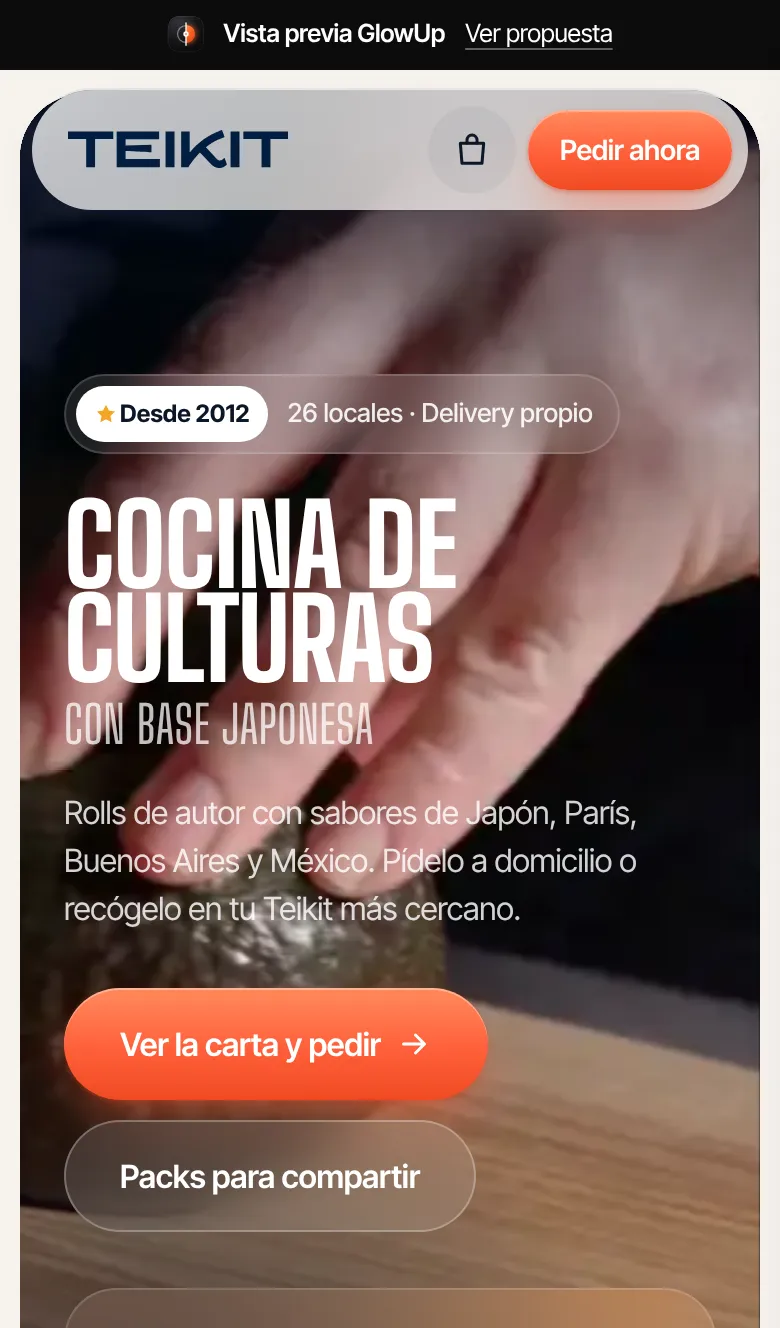
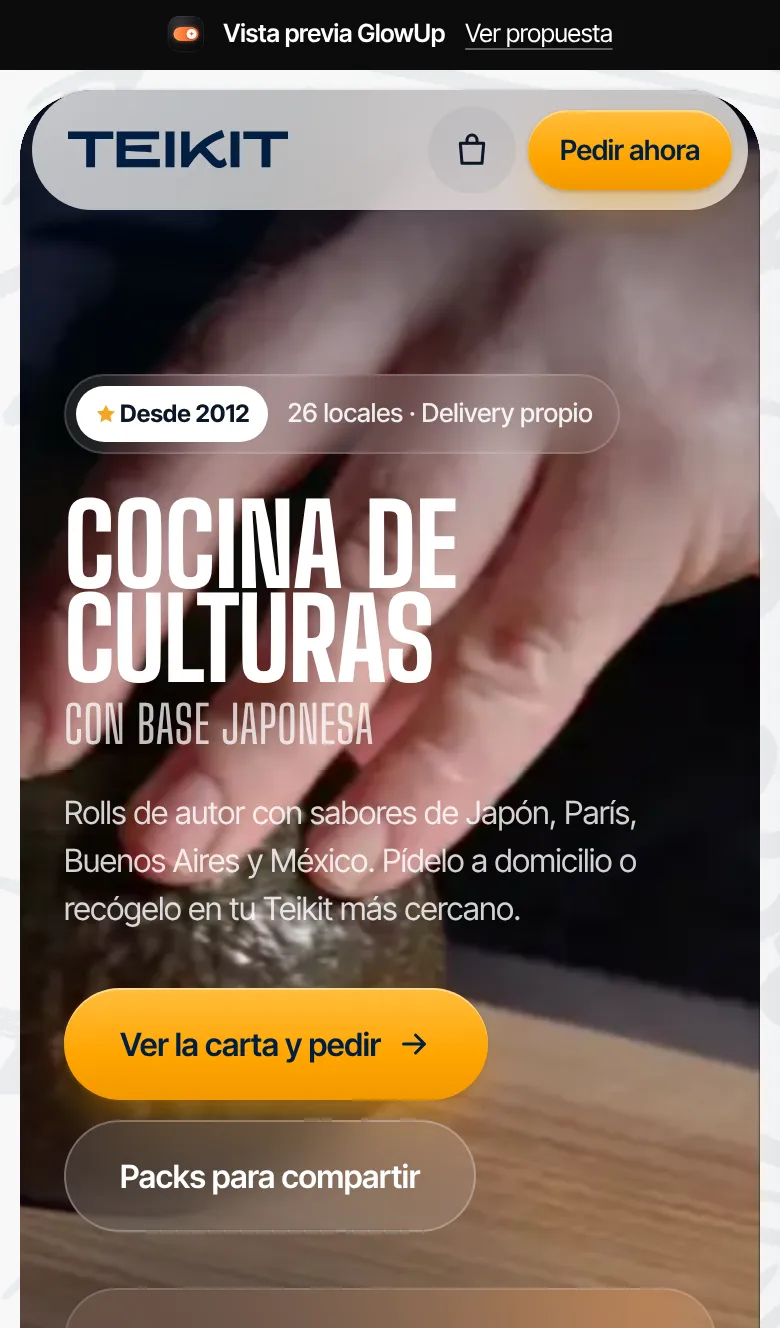
Demo con la paleta, el patrón y las fotos de Teikit; garantía como contrato en la landing
- Demo: el salmón pasa al ámbar de Teikit (#FFA500) con texto navy;
  su patrón de dibujos de fondo (cargado tras pintar la portada) y en
  blanco sobre la franja azul; foto en cada local (sus 19 fotos de
  locales), sushiman en 'Nuestra historia', servicios con fotos reales
  (rider, ventanilla de recogida, degustación, cajas para eventos).
- Landing: la garantía es el contrato firmado (firma y sello animados);
  el precio, a lo ancho debajo.
- Propuesta: capturas, carrera de carga y tarjeta de colores al día.

Claude-Session: https://claude.ai/code/session_01ML5JEjcnWQZsaYVQ4vkEcQ

Changed region(s): [[0.0615, 0.741, 0.6462, 0.8336], [0.6769, 0.0617, 0.9538, 0.1544], [0.2154, 0.0, 0.2462, 0.0309]]

diff --git a/demo/teikit/teikit.css b/demo/teikit/teikit.css
@@ -13,9 +13,12 @@
   --paper: #fffdf9;
   --beige: #e2ded6;            /* el fondo exacto de sus fotos de producto */
   --line: rgba(1, 30, 65, .09);
-  --salmon: #ff5f3a;
-  --salmon-2: #ff8a5c;
-  --salmon-ink: #c63d1c;
+  --amber: #ffa500;          /* el ámbar de los botones de teikit.es */
+  --amber-2: #ffbe3d;
+  --amber-ink: #8a5000;      /* ámbar oscuro para texto sobre claro */
+  --slate: #bacbd1;          /* gris azulado de 'Sushi masters desde 2012' */
+  --slate-ink: #45606e;
+  --off: #f7f8f8;            /* blanco roto del fondo con patrón */
   --green: #22a65a;
   --r-s: 14px;
   --r-m: 22px;
@@ -36,16 +39,18 @@ body {
   margin: 0;
   font-family: var(--sans);
   color: var(--ink);
-  background: var(--cream);
+  background: var(--off);
   font-size: 16px;
   line-height: 1.5;
   -webkit-font-smoothing: antialiased;
   overflow-x: hidden;
 }
+/* El patrón de Teikit se pinta justo después de la portada (no retrasa la carga) */
+body.pat { background-image: url(img/pattern-navy.webp); background-size: 1400px auto; }
 img, video { display: block; max-width: 100%; }
 a { color: inherit; text-decoration: none; }
 button { font: inherit; color: inherit; border: 0; background: none; cursor: pointer; }
-:focus-visible { outline: 2px solid var(--salmon); outline-offset: 3px; border-radius: 8px; }
+:focus-visible { outline: 2px solid var(--amber); outline-offset: 3px; border-radius: 8px; }
 .wrap { width: 100%; max-width: var(--max); margin: 0 auto; padding: 0 var(--gutter); }
 .sr { position: absolute; width: 1px; height: 1px; overflow: hidden; clip: rect(0 0 0 0); }
 
@@ -90,7 +95,7 @@ button { font: inherit; color: inherit; border: 0; background: none; cursor: poi
 .cart-btn svg { width: 20px; height: 20px; }
 .cart-btn .count {
   position: absolute; top: -2px; right: -2px; min-width: 19px; height: 19px; padding: 0 5px;
-  border-radius: 99px; background: var(--salmon); color: #fff; font-size: 11px; font-weight: 700;
+  border-radius: 99px; background: var(--amber); color: var(--navy); font-size: 11px; font-weight: 700;
   display: grid; place-items: center; transform: scale(0); transition: transform .35s var(--spring);
 }
 .cart-btn.has .count { transform: scale(1); }
@@ -115,11 +120,11 @@ button { font: inherit; color: inherit; border: 0; background: none; cursor: poi
 .btn:hover { transform: translateY(-2px); }
 .btn:active { transform: translateY(0) scale(.98); }
 .btn svg { width: 18px; height: 18px; }
-.btn.salmon {
-  --bg: linear-gradient(180deg, var(--salmon-2), var(--salmon) 55%, #f04a22);
-  box-shadow: inset 0 1px 0 rgba(255,255,255,.35), 0 1px 2px rgba(198,61,28,.4), 0 12px 28px -10px rgba(255,95,58,.75);
+.btn.amber {
+  --bg: linear-gradient(180deg, var(--amber-2), var(--amber) 60%, #f29800); --fg: var(--navy);
+  box-shadow: inset 0 1px 0 rgba(255,255,255,.45), 0 1px 2px rgba(138,80,0,.35), 0 12px 28px -10px rgba(255,165,0,.7);
 }
-.btn.salmon:hover { box-shadow: inset 0 1px 0 rgba(255,255,255,.35), 0 1px 2px rgba(198,61,28,.4), 0 18px 36px -10px rgba(255,95,58,.85); }
+.btn.amber:hover { box-shadow: inset 0 1px 0 rgba(255,255,255,.45), 0 1px 2px rgba(138,80,0,.35), 0 18px 36px -10px rgba(255,165,0,.8); }
 .btn.ghost { --bg: rgba(255,255,255,.12); box-shadow: inset 0 0 0 1px rgba(255,255,255,.28); -webkit-backdrop-filter: blur(12px); backdrop-filter: blur(12px); }
 .btn.light { --bg: #fff; --fg: var(--ink); box-shadow: var(--shadow-s); }
 .btn.sm { height: 40px; padding: 0 16px; font-size: 14px; }
@@ -178,7 +183,7 @@ button { font: inherit; color: inherit; border: 0; background: none; cursor: poi
   width: 100%; height: 50px; padding: 0 16px 0 44px; border-radius: 16px; border: 0;
   background: rgba(255,255,255,.95); color: var(--ink); font: 500 15px var(--sans); outline: none;
 }
-.loc-input svg { position: absolute; left: 14px; top: 50%; translate: 0 -50%; width: 20px; height: 20px; color: var(--salmon); }
+.loc-input svg { position: absolute; left: 14px; top: 50%; translate: 0 -50%; width: 20px; height: 20px; color: var(--amber-ink); }
 .loc-results { margin-top: 8px; display: grid; gap: 6px; max-height: 0; overflow: hidden; transition: max-height .5s var(--ease); }
 .loc-results.open { max-height: 260px; }
 .loc-results a {
@@ -214,7 +219,7 @@ button { font: inherit; color: inherit; border: 0; background: none; cursor: poi
 /* ---------- Section headings ---------- */
 .sec { padding: clamp(72px, 10vw, 128px) 0 0; }
 .sec-head { display: flex; align-items: end; justify-content: space-between; gap: 24px; margin-bottom: 28px; }
-.kicker { display: inline-flex; align-items: center; gap: 8px; font-size: 13px; font-weight: 600; color: var(--salmon-ink); letter-spacing: .02em; text-transform: uppercase; margin-bottom: 12px; }
+.kicker { display: inline-flex; align-items: center; gap: 8px; font-size: 13px; font-weight: 600; color: var(--slate-ink); letter-spacing: .02em; text-transform: uppercase; margin-bottom: 12px; }
 .kicker::before { content: ""; width: 18px; height: 2px; border-radius: 2px; background: currentColor; }
 .h2 {
   margin: 0; font-family: var(--display); font-weight: 800; text-transform: uppercase;
@@ -245,7 +250,7 @@ button { font: inherit; color: inherit; border: 0; background: none; cursor: poi
 .hero-dish h3 { margin: 0; font-size: 18px; letter-spacing: -.02em; }
 .hero-dish p { margin: 4px 0 12px; font-size: 13.5px; color: var(--ink-2); line-height: 1.4; display: -webkit-box; -webkit-line-clamp: 2; -webkit-box-orient: vertical; overflow: hidden; }
 .badge { display: inline-flex; align-items: center; gap: 5px; height: 26px; padding: 0 10px; border-radius: 99px; font-size: 12px; font-weight: 600; background: #fff; color: var(--ink); box-shadow: 0 1px 2px rgba(0,0,0,.08); }
-.badge.hot { background: var(--salmon-ink); color: #fff; }
+.badge.hot { background: var(--amber); color: var(--navy); }
 .badge.new { background: var(--navy); color: #fff; }
 .badge.veg { background: #e5f5ea; color: #16733d; }
 .hero-dish .badges { position: absolute; top: 12px; left: 12px; display: flex; gap: 6px; }
@@ -314,11 +319,12 @@ button { font: inherit; color: inherit; border: 0; background: none; cursor: poi
 .band {
   margin-top: clamp(72px, 10vw, 128px); padding: clamp(64px, 8vw, 104px) 0; background: var(--navy); color: #fff;
   border-radius: var(--r-l); width: calc(100% - 20px); margin-left: auto; margin-right: auto; overflow: hidden; position: relative;
+  background-image: url(img/pattern-white.webp); background-size: 1400px auto;
 }
-.band::before { content: ""; position: absolute; inset: -40% -10% auto auto; width: 70%; height: 120%; background: radial-gradient(closest-side, rgba(255,95,58,.22), transparent); pointer-events: none; }
+.band::before { content: ""; position: absolute; inset: -40% -10% auto auto; width: 70%; height: 120%; background: radial-gradient(closest-side, rgba(255,165,0,.18), transparent); pointer-events: none; }
 .band .h2 { color: #fff; }
 .band .sub { color: rgba(255,255,255,.72); }
-.band .kicker { color: var(--salmon-2); }
+.band .kicker { color: var(--slate); }
 .packs { display: grid; grid-template-columns: 1.3fr 1fr 1fr; gap: 14px; }
 .pack {
   position: relative; border-radius: var(--r-m); overflow: hidden; background: var(--beige); color: var(--ink);
@@ -342,11 +348,11 @@ button { font: inherit; color: inherit; border: 0; background: none; cursor: poi
 .story .intro { grid-row: span 2; background: var(--navy); color: #fff; display: flex; flex-direction: column; justify-content: space-between; min-height: 520px; padding: 0; }
 .story .intro .txt { padding: 32px; }
 .story .intro .txt p { color: rgba(255,255,255,.78); font-size: 17px; max-width: 460px; }
-.story .intro img { width: 100%; height: 260px; object-fit: cover; }
+.story .intro img { width: 100%; height: 320px; object-fit: cover; object-position: 50% 30%; }
 .story .intro h2 { font-family: var(--display); font-weight: 800; text-transform: uppercase; font-size: clamp(40px, 4.4vw, 60px); line-height: .9; margin: 0 0 14px; }
 .values { display: grid; grid-template-columns: 1fr 1fr; gap: 14px; }
 .value { border-radius: var(--r-m); background: var(--paper); box-shadow: var(--shadow-s); padding: 24px; }
-.value .num { font-family: var(--display); font-weight: 800; font-size: 54px; line-height: 1; color: var(--salmon); }
+.value .num { font-family: var(--display); font-weight: 800; font-size: 54px; line-height: 1; color: var(--slate); -webkit-text-stroke: 0; }
 .value h3 { margin: 10px 0 6px; font-size: 18px; letter-spacing: -.02em; }
 .value p { margin: 0; font-size: 14px; color: var(--ink-2); }
 @media (max-width: 920px) { .story { grid-template-columns: 1fr; } .story .intro { min-height: 0; } }
@@ -372,7 +378,13 @@ button { font: inherit; color: inherit; border: 0; background: none; cursor: poi
 .regions button.on { background: var(--navy); color: #fff; }
 .regions button.on span { background: rgba(255,255,255,.16); color: #fff; }
 .store-list { display: grid; grid-template-columns: repeat(auto-fill, minmax(260px, 1fr)); gap: 12px; align-content: start; }
-.store { padding: 20px; border-radius: var(--r-m); background: var(--paper); box-shadow: var(--shadow-s); display: flex; flex-direction: column; gap: 4px; animation: rise .5s var(--ease) both; }
+.store { padding: 0 0 18px; overflow: hidden; border-radius: var(--r-m); background: var(--paper); box-shadow: var(--shadow-s); display: flex; flex-direction: column; gap: 4px; animation: rise .5s var(--ease) both; transition: transform .4s var(--ease), box-shadow .4s var(--ease); }
+.store:hover { transform: translateY(-3px); box-shadow: var(--shadow-m); }
+.store .ph { position: relative; aspect-ratio: 16 / 11; overflow: hidden; margin-bottom: 12px; background: var(--navy); }
+.store .ph img { width: 100%; height: 100%; object-fit: cover; transition: transform 1.2s var(--ease); }
+.store:hover .ph img { transform: scale(1.05); }
+.store .ph .st { position: absolute; left: 12px; top: 12px; margin: 0; background: rgba(255,253,249,.92); -webkit-backdrop-filter: blur(10px); backdrop-filter: blur(10px); }
+.store > h3, .store > .addr, .store > .row { margin-left: 18px; margin-right: 18px; }
 .store h3 { margin: 0; font-size: 17px; letter-spacing: -.02em; }
 .store .addr { font-size: 14px; color: var(--ink-2); }
 .store .row { display: flex; gap: 6px; margin-top: 12px; }
@@ -384,6 +396,7 @@ button { font: inherit; color: inherit; border: 0; background: none; cursor: poi
 .store .st { align-self: flex-start; display: inline-flex; align-items: center; gap: 6px; height: 24px; padding: 0 10px; border-radius: 99px; font-size: 12px; font-weight: 600; background: var(--cream); color: var(--ink-2); margin-bottom: 8px; }
 .store .st i { width: 7px; height: 7px; border-radius: 50%; background: #f5a524; }
 .store .st.on { background: #e5f5ea; color: #16733d; }
+.store .ph .st.on { background: rgba(229,245,234,.94); }
 .store .st.on i { background: var(--green); }
 
 /* Fotos de los locales */
@@ -414,7 +427,7 @@ button { font: inherit; color: inherit; border: 0; background: none; cursor: poi
 /* ---------- Services ---------- */
 .services { display: grid; grid-template-columns: repeat(4, 1fr); gap: 12px; }
 .svc { padding: 24px; border-radius: var(--r-m); background: var(--paper); box-shadow: var(--shadow-s); }
-.svc .ico { width: 46px; height: 46px; border-radius: 14px; display: grid; place-items: center; background: var(--cream); color: var(--salmon); margin-bottom: 18px; }
+.svc .ico { width: 46px; height: 46px; border-radius: 14px; display: grid; place-items: center; background: var(--cream); color: var(--navy); margin-bottom: 18px; }
 .svc .ico svg { width: 22px; height: 22px; }
 .svc h3 { margin: 0 0 6px; font-size: 18px; letter-spacing: -.02em; }
 .svc p { margin: 0; font-size: 14px; color: var(--ink-2); }
@@ -480,12 +493,12 @@ body.cart-open .drawer-bg { opacity: 1; pointer-events: auto; }
 .sg .add { width: 28px; height: 28px; padding: 0; justify-content: center; }
 .sg .add svg { width: 14px; height: 14px; }
 .drawer .dinfo { display: flex; align-items: center; gap: 8px; font-size: 12.5px; color: var(--ink-2); margin-bottom: 12px; padding: 10px 12px; border-radius: 12px; background: var(--cream); }
-.drawer .dinfo svg { width: 18px; height: 18px; color: var(--salmon-ink); flex: none; }
+.drawer .dinfo svg { width: 18px; height: 18px; color: var(--amber-ink); flex: none; }
 .drawer footer { padding: 16px 20px 20px; border-top: 1px solid var(--line); }
 .drawer .tot { display: flex; justify-content: space-between; font-size: 15px; margin-bottom: 4px; }
 .drawer .tot.big { font-size: 20px; font-weight: 700; letter-spacing: -.02em; margin: 8px 0 14px; }
 .drawer .free { height: 6px; border-radius: 99px; background: var(--cream); overflow: hidden; margin: 6px 0 4px; }
-.drawer .free i { display: block; height: 100%; background: linear-gradient(90deg, var(--salmon-2), var(--salmon)); border-radius: 99px; transition: width .6s var(--ease); }
+.drawer .free i { display: block; height: 100%; background: linear-gradient(90deg, var(--amber-2), var(--amber)); border-radius: 99px; transition: width .6s var(--ease); }
 .drawer .free-txt { font-size: 12.5px; color: var(--ink-2); }
 .drawer footer .btn { width: 100%; }
 .drawer .empty-cart { text-align: center; padding: 40px 10px; color: var(--ink-2); }
@@ -504,3 +517,13 @@ body.cart-open .drawer-bg { opacity: 1; pointer-events: auto; }
   *, *::before, *::after { animation-duration: .001ms !important; animation-iteration-count: 1 !important; transition-duration: .001ms !important; scroll-behavior: auto !important; }
   .rv { opacity: 1; transform: none; filter: none; }
 }
+
+/* Servicios con fotos reales de Teikit */
+.svc.ph-card { padding: 0; overflow: hidden; display: flex; flex-direction: column; }
+.svc.ph-card .im { position: relative; aspect-ratio: 4 / 3; overflow: hidden; background: var(--navy); }
+.svc.ph-card .im img { width: 100%; height: 100%; object-fit: cover; transition: transform 1.2s var(--ease); }
+.svc.ph-card:hover .im img { transform: scale(1.05); }
+.svc.ph-card .im .ico { position: absolute; left: 14px; bottom: -22px; margin: 0; background: var(--amber); color: var(--navy); box-shadow: 0 8px 18px -8px rgba(138,80,0,.6); }
+.svc.ph-card .tx { padding: 34px 22px 22px; }
+/* Las fotos de la sección de locales, ahora más altas y con las mejores fachadas */
+.loc-photos .lp img { object-position: 50% 40%; }

diff --git a/demo/teikit/index.html b/demo/teikit/index.html
@@ -58,7 +58,7 @@
   </nav>
   <div class="actions">
     <button class="cart-btn" id="cartBtn" aria-label="Abrir pedido"><svg><use href="#i-bag"/></svg><span class="count" id="cartCount">0</span></button>
-    <a class="btn salmon sm" href="#carta">Pedir ahora</a>
+    <a class="btn amber sm" href="#carta">Pedir ahora</a>
   </div>
 </header>
 
@@ -76,7 +76,7 @@
           <h1 class="rv" style="--d:.08s">Cocina de culturas<span class="thin">con base japonesa</span></h1>
           <p class="lead rv" style="--d:.16s">Rolls de autor con sabores de Japón, París, Buenos Aires y México. Pídelo a domicilio o recógelo en tu Teikit más cercano.</p>
           <div class="ctas rv" style="--d:.24s">
-            <a class="btn salmon lg" href="#carta">Ver la carta y pedir <svg><use href="#i-arrow"/></svg></a>
+            <a class="btn amber lg" href="#carta">Ver la carta y pedir <svg><use href="#i-arrow"/></svg></a>
             <a class="btn ghost lg" href="#packs">Packs para compartir</a>
           </div>
         </div>
@@ -92,7 +92,7 @@
             <input id="locQuery" type="text" autocomplete="off" placeholder="Escribe tu ciudad o barrio" />
           </label>
           <div class="loc-results" id="locResults"></div>
-          <a class="btn salmon" href="#carta">Empezar mi pedido</a>
+          <a class="btn amber" href="#carta">Empezar mi pedido</a>
           <div class="meta"><span><i class="dot-live"></i> Cocinas en 19 ciudades</span><span>Pago online seguro</span></div>
         </form>
       </div>
@@ -171,11 +171,11 @@
       <div class="story">
         <div class="card intro rv">
           <div class="txt">
-            <div class="kicker" style="color:var(--salmon-2)">Nuestra historia</div>
+            <div class="kicker" style="color:var(--slate)">Nuestra historia</div>
             <h2>Revolucionando la cocina japonesa</h2>
             <p>En 2012 dejamos nuestros trabajos para crear un nuevo concepto de cocina japonesa. Bajo su técnica fusionamos los sabores de México, Brasil, Argentina o el Mediterráneo: del foie mi-cuit con manzana horneada a las salsas peruanas con ají.</p>
           </div>
-          <img src="img/g-roll-kioto.webp" alt="Rolls Kioto de Teikit sobre plato de cerámica" loading="lazy" />
+          <img src="img/chef.webp" alt="Sushi master de Teikit enrollando un roll en el local" loading="lazy" />
         </div>
         <div class="values">
           <div class="value rv"><div class="num">01</div><h3>Sabor</h3><p>Más de 25 salsas propias y toppings. Tenemos más salsas que Celia Cruz, y no exageramos.</p></div>
@@ -212,10 +212,10 @@
         <div class="open-chip rv" id="openChip"><i class="dot-live"></i><span>Abiertos todos los días · 12:30–15:30 y 19:00–23:00</span></div>
       </div>
       <div class="loc-photos">
-        <figure class="lp rv"><img src="img/local-1.webp" alt="Fachada de un local Teikit" loading="lazy" /><figcaption>A pie de calle</figcaption></figure>
-        <figure class="lp rv" style="--d:.06s"><img src="img/local-2.webp" alt="Ventanilla de recogida para riders en un local Teikit" loading="lazy" /><figcaption>Riders pick-up</figcaption></figure>
-        <figure class="lp rv" style="--d:.12s"><img src="img/local-3.webp" alt="Local Teikit con clientes pasando por delante" loading="lazy" /><figcaption>Recoge sin esperas</figcaption></figure>
-        <figure class="lp rv" style="--d:.18s"><img src="img/local-4.webp" alt="Fachada azul de Teikit con el cartel Recoge aquí" loading="lazy" /><figcaption>Delivery sushi fusion</figcaption></figure>
+        <figure class="lp rv"><img src="img/local-04.webp" alt="Fachada azul de Teikit con gente paseando" loading="lazy" /><figcaption>A pie de calle</figcaption></figure>
+        <figure class="lp rv" style="--d:0.06s"><img src="img/local-10.webp" alt="Escaparate de Teikit iluminado de noche" loading="lazy" /><figcaption>Abiertos hasta las 23:00</figcaption></figure>
+        <figure class="lp rv" style="--d:0.12s"><img src="img/local-18.webp" alt="Ventanilla de recogida para riders" loading="lazy" /><figcaption>Riders pick-up</figcaption></figure>
+        <figure class="lp rv" style="--d:0.18s"><img src="img/local-11.webp" alt="Interior de un local Teikit con el logo en la pared" loading="lazy" /><figcaption>Recoge sin esperas</figcaption></figure>
       </div>
       <div class="stores">
         <div class="regions" id="regions"></div>
@@ -228,10 +228,10 @@
   <section class="sec">
     <div class="wrap">
       <div class="services">
-        <div class="svc rv"><div class="ico"><svg><use href="#i-scooter"/></svg></div><h3>Delivery</h3><p>Nuestros riders y un packaging diseñado para que llegue igual que sale de cocina.</p></div>
-        <div class="svc rv" style="--d:.06s"><div class="ico"><svg><use href="#i-bag"/></svg></div><h3>Take away</h3><p>Pide online y recógelo en tu local sin esperas.</p></div>
-        <div class="svc rv" style="--d:.12s"><div class="ico"><svg><use href="#i-chop"/></svg></div><h3>Degustación</h3><p>Descubre la carta con una experiencia guiada por nuestros sushi masters.</p></div>
-        <div class="svc rv" style="--d:.18s"><div class="ico"><svg><use href="#i-cal"/></svg></div><h3>Eventos</h3><p>Packs y bandejas para oficinas, cumpleaños y celebraciones.</p></div>
+        <div class="svc ph-card rv"><div class="im"><img src="img/rider.webp" alt="Rider de Teikit con el pedido y el móvil" loading="lazy" /><div class="ico"><svg><use href="#i-scooter"/></svg></div></div><div class="tx"><h3>Delivery</h3><p>Nuestros riders y un packaging diseñado para que llegue igual que sale de cocina.</p></div></div>
+        <div class="svc ph-card rv" style="--d:0.06s"><div class="im"><img src="img/local-18.webp" alt="Ventanilla de recogida de un local Teikit" loading="lazy" /><div class="ico"><svg><use href="#i-bag"/></svg></div></div><div class="tx"><h3>Take away</h3><p>Pide online y recógelo en tu local sin esperas.</p></div></div>
+        <div class="svc ph-card rv" style="--d:0.12s"><div class="im"><img src="img/degusta.webp" alt="Chica comiendo sushi con palillos" loading="lazy" /><div class="ico"><svg><use href="#i-chop"/></svg></div></div><div class="tx"><h3>Degustación</h3><p>Descubre la carta con una experiencia guiada por nuestros sushi masters.</p></div></div>
+        <div class="svc ph-card rv" style="--d:0.18s"><div class="im"><img src="img/local-14.webp" alt="Mano sujetando cajas de Teikit para llevar" loading="lazy" /><div class="ico"><svg><use href="#i-cal"/></svg></div></div><div class="tx"><h3>Eventos</h3><p>Packs y bandejas para oficinas, cumpleaños y celebraciones.</p></div></div>
       </div>
     </div>
   </section>
@@ -242,7 +242,7 @@
     <div class="inner">
       <h2 class="rv">Empieza el viaje</h2>
       <p class="rv" style="--d:.08s">Japón, París, Buenos Aires, México… sin salir de casa. Tu pedido, en unos clics.</p>
-      <a class="btn salmon lg rv" style="--d:.16s" href="#carta">Pedir ahora <svg><use href="#i-arrow"/></svg></a>
+      <a class="btn amber lg rv" style="--d:.16s" href="#carta">Pedir ahora <svg><use href="#i-arrow"/></svg></a>
     </div>
   </section>
 </main>
@@ -265,7 +265,7 @@
 <!-- Pedido -->
 <div class="cart-bar" id="cartBar" aria-live="polite">
   <div class="sum"><b id="barTotal">0,00 €</b><span id="barCount">0 productos</span></div>
-  <button class="btn salmon" id="barOpen">Ver pedido <svg><use href="#i-arrow"/></svg></button>
+  <button class="btn amber" id="barOpen">Ver pedido <svg><use href="#i-arrow"/></svg></button>
 </div>
 <div class="drawer-bg" id="drawerBg"></div>
 <aside class="drawer" id="drawer" aria-label="Tu pedido" aria-hidden="true">
@@ -275,7 +275,7 @@
     <div class="dinfo"><svg><use href="#i-scooter"/></svg> Eliges dirección o recogida en el siguiente paso</div>
     <div class="tot"><span>Subtotal</span><span id="sub">0,00 €</span></div>
     <div class="tot big"><span>Total</span><span id="tot">0,00 €</span></div>
-    <a class="btn salmon lg" id="checkout" href="https://teikit.es/home/?controller=stores" target="_blank" rel="noopener">Elegir dirección y pagar <svg><use href="#i-arrow"/></svg></a>
+    <a class="btn amber lg" id="checkout" href="https://teikit.es/home/?controller=stores" target="_blank" rel="noopener">Elegir dirección y pagar <svg><use href="#i-arrow"/></svg></a>
   </footer>
 </aside>
 <div class="toast" id="toast"><img alt="" /><span></span></div>

diff --git a/index.html b/index.html
@@ -315,7 +315,35 @@
         <span class="eyebrow rv">Precio y garantía</span>
         <h2 class="h2 rv">Un precio cerrado.<br />Una garantía firmada.</h2>
       </div>
-      <div class="offer">
+      <div class="guar-blk rv" style="margin-bottom:12px">
+        <div>
+          <span class="ey" style="background:rgba(255,255,255,.08);box-shadow:inset 0 0 0 1px rgba(255,255,255,.1)"><b style="background:#fff;color:#0a0a0b"><img class="lg" src="assets/logo.svg" alt="" /> GlowUp</b><span style="color:#c7c7cc">Garantía</span></span>
+          <h2>Si la conversión no sube, seguimos trabajando gratis.</h2>
+          <p>Antes de empezar dejamos por escrito qué indicador movemos y cómo se mide, con los datos de tu tienda. Si no se mueve, seguimos sin cobrar hasta que lo haga.</p>
+          <ul>
+            <li><svg><use href="#check"/></svg> Firmado antes de empezar</li>
+            <li><svg><use href="#check"/></svg> Medido con los datos de tu tienda</li>
+            <li><svg><use href="#check"/></svg> El riesgo lo asumimos nosotros</li>
+          </ul>
+        </div>
+        <div class="docs">
+          <div class="doc b1"><div class="hd"><b>Tu web nueva</b></div><small>Antes de pagar nada</small><div class="k">DEMO GRATIS · 72 H</div></div>
+          <div class="doc b2"><div class="hd"><b>Medición</b></div><small>Indicador acordado</small><div class="k">ANTES Y DESPUÉS</div></div>
+          <div class="doc main">
+            <div class="hd"><img src="assets/logo.svg" alt="" /><b>Contrato de garantía</b></div>
+            <small>GlowUp × Tu marca</small>
+            <div class="k">LAS PARTES ACUERDAN</div>
+            <ol><li>Acordamos el indicador y cómo se mide.</li><li>Si no sube, GlowUp sigue trabajando sin coste.</li><li>El riesgo lo asume GlowUp.</li></ol>
+            <div class="sig">
+              <div><svg viewBox="0 0 120 40"><path d="M4 28c10-18 16-20 18-8s4 10 10-2 8-14 12 0 6 8 14-6c6-10 8 4 12 6s10-6 16-4 10 2 30-2"/></svg><b>GlowUp</b><span>Por GlowUp</span></div>
+              <div style="opacity:.55"><svg viewBox="0 0 120 40"></svg><b>Tu marca</b><span>Por la marca</span></div>
+            </div>
+            <div class="date">Firmado antes de empezar</div>
+            <span class="stamp">FIRMADO POR GLOWUP</span>
+          </div>
+        </div>
+      </div>
+      <div class="offer offer-one">
         <div class="card rv">
           <span class="tag brand">Glow Up completo</span>
           <h3 class="price-claim">Precio cerrado y por escrito antes de empezar.</h3>
@@ -329,12 +357,6 @@
             <li><svg><use href="#check"/></svg>Todo es tuyo: código, diseño y accesos. Sin permanencia</li>
           </ul>
           <a class="btn glow lg" href="#empieza" data-contact="Hola, quiero mi glow up. Mi web es: " style="width:100%">Quiero mi glow up</a>
-        </div>
-        <div class="card guar rv" style="--d:.08s">
-          <div class="seal"><span>Garantía<br />firmada</span></div>
-          <h3 class="h3" style="margin:26px 0 12px">Si la conversión no sube, seguimos trabajando gratis.</h3>
-          <p>Antes de empezar dejamos por escrito qué indicador movemos y cómo se mide, con los datos de tu tienda. Si no se mueve, seguimos sin cobrar hasta que lo haga. El riesgo lo asumimos nosotros.</p>
-          <p style="margin-top:auto;padding-top:24px;font-size:13.5px;color:#8e8e93">Y antes de todo eso, ya habrás visto tu web nueva funcionando. Gratis.</p>
         </div>
       </div>
     </div>

diff --git a/demo/teikit/teikit.js b/demo/teikit/teikit.js
@@ -161,11 +161,14 @@
   const chip = $('#openChip');
   if (chip) { chip.classList.toggle('closed', !status.open); chip.querySelector('span').textContent = `${status.text} · Todos los días, 12:30–15:30 y 19:00–23:00`; }
 
+  // Fotos de los locales publicadas en teikit.es (su web no indica de qué local es cada una)
+  const STORE_PHOTOS = ['local-04', 'local-08', 'local-12', 'local-06', 'local-16', 'local-02', 'local-10', 'local-19', 'local-03', 'local-13', 'local-07', 'local-15', 'local-05', 'local-17', 'local-01', 'local-11', 'local-18'];
+
   function renderStores(region) {
     $$('#regions button').forEach((b) => b.classList.toggle('on', b.dataset.r === region));
     $('#storeList').innerHTML = D.stores.filter((s) => s.region === region).map((s, i) => `
       <div class="store" style="animation-delay:${i * 0.04}s">
-        <span class="st ${status.open ? 'on' : ''}"><i></i>${status.text}</span>
+        <div class="ph"><img src="img/${STORE_PHOTOS[D.stores.indexOf(s) % STORE_PHOTOS.length]}.webp" alt="Local Teikit" loading="lazy" /><span class="st ${status.open ? 'on' : ''}"><i></i>${status.text}</span></div>
         <h3>Teikit ${esc(s.name)}</h3>
         <div class="addr">${esc(s.addr)} · ${esc(s.city)}</div>
         <div class="row"><a href="tel:${tel(s.phone)}">${icon('i-phone')} ${esc(s.phone.replace('+34 ', ''))}</a><a class="pri" href="${maps(s)}" target="_blank" rel="noopener">${icon('i-pin')} Cómo llegar</a></div>
@@ -260,6 +263,10 @@
   $('#drawerX').addEventListener('click', () => open(false));
   $('#drawerBg').addEventListener('click', () => open(false));
   addEventListener('keydown', (e) => { if (e.key === 'Escape') open(false); });
+
+  /* ---------- Patrón de fondo, después de pintar la portada ---------- */
+  const pat = () => setTimeout(() => document.body.classList.add('pat'), 150);
+  if (document.readyState === 'complete') pat(); else addEventListener('load', pat);
 
   /* ---------- Init ---------- */
   renderMenu();

diff --git a/para/teikit/index.html b/para/teikit/index.html
@@ -230,7 +230,7 @@
   <section class="sec" style="padding-top:clamp(64px,8vw,96px)">
     <div class="wrap">
       <div class="decide">
-        <div class="dc rv"><div class="vis"><div class="sw"><span class="aa">Aa</span><i style="background:#011e41"></i><i style="background:#f6f3ee"></i><i style="background:#ff5f3a"></i></div></div><div class="txt"><b>Navy, crema y un punto salmón</b><p>Vuestro navy y vuestra tipografía condensada. El salmón, solo para pedir.</p></div></div>
+        <div class="dc rv"><div class="vis"><div class="sw"><span class="aa">Aa</span><i style="background:#011e41"></i><i style="background:#f7f8f8"></i><i style="background:#ffa500"></i></div></div><div class="txt"><b>Vuestro navy y vuestro ámbar</b><p>Vuestros colores, vuestra tipografía condensada y vuestro patrón de dibujos. El ámbar, solo para pedir.</p></div></div>
         <div class="dc rv" style="--d:.05s"><div class="vis"><div class="mini-loc">¿Dónde te lo llevamos?<div class="in">Chamberí</div><div class="go">Empezar mi pedido</div></div></div><div class="txt"><b>Primero, vuestro Teikit</b><p>Un buscador de local en la primera pantalla. Sin formularios.</p></div></div>
         <div class="dc rv" style="--d:.1s"><div class="vis"><div class="mini-dish"><img src="../../demo/teikit/img/menu/kioto.webp" alt="" /><div><b>Kioto</b><div class="r">9,95 € <i>+</i></div></div></div></div><div class="txt"><b>Cada plato, con precio</b><p>Los best sellers dejan de ser solo fotos: nombre, precio y añadir.</p></div></div>
         <div class="dc rv" style="--d:.15s"><div class="vis"><div class="mini-pack"><img src="../../demo/teikit/img/menu/the-royal-box.webp" alt="" /><span>1,25 € / pieza</span></div></div><div class="txt"><b>Packs que se explican solos</b><p>Precio por pieza a la vista para que compartir sea la opción fácil.</p></div></div>

diff --git a/assets/glow.css b/assets/glow.css
@@ -513,3 +513,11 @@ input[type=range]::-moz-range-thumb { width: 30px; height: 20px; border-radius: 
 .brand:hover .tgl .kn { transform: translateX(20px); }
 .nav .brand { padding-left: 8px; }
 :root[data-theme="dark"] .brand .tgl .t-off, body.dark-zone .brand .tgl .t-off { fill: #3a3a3f; }
+
+/* Precio a lo ancho, bajo el contrato de garantía */
+.offer.offer-one { grid-template-columns: 1fr; max-width: none; }
+.offer.offer-one .card { display: grid; grid-template-columns: 1.1fr 1fr; gap: 8px 48px; align-items: start; }
+.offer.offer-one .card > .tag, .offer.offer-one .card > .price-claim, .offer.offer-one .card > p, .offer.offer-one .card > .price-chips { grid-column: 1; }
+.offer.offer-one .card > ul { grid-column: 2; grid-row: 1 / span 4; margin: 0; }
+.offer.offer-one .card > .btn { grid-column: 2; }
+@media (max-width: 860px) { .offer.offer-one .card { grid-template-columns: 1fr; } .offer.offer-one .card > ul, .offer.offer-one .card > .btn { grid-column: 1; grid-row: auto; } .offer.offer-one .card > ul { margin: 20px 0; } }
